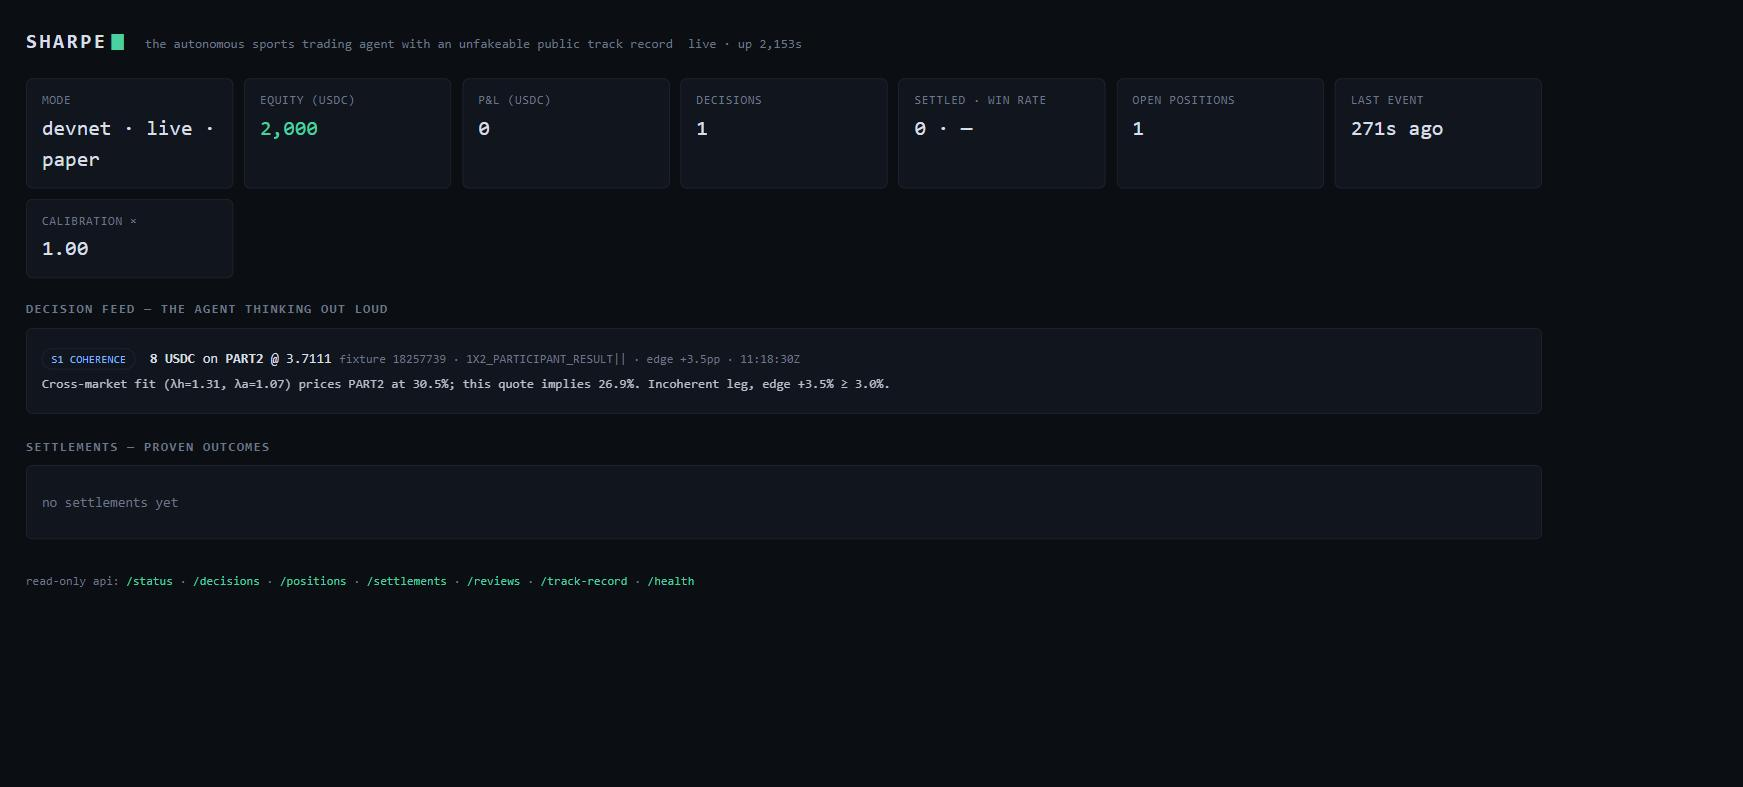
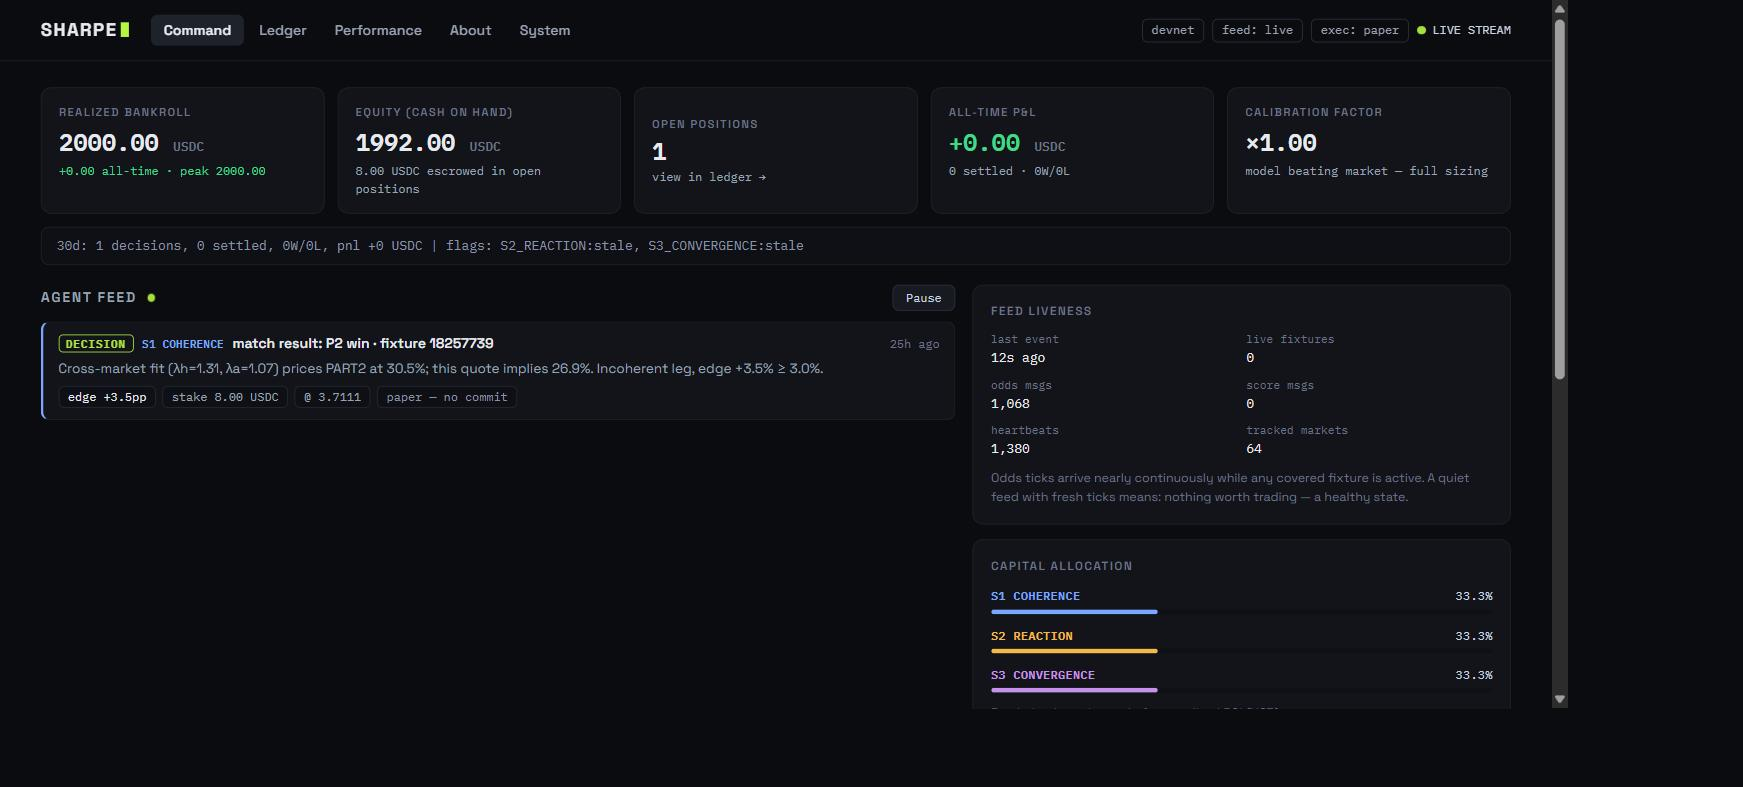
docs: README hero = the real production frontend (browser-verified, all views, zero app errors)

diff --git a/README.md b/README.md
@@ -54,9 +54,9 @@ The chain accepted the truth and rejected the lie. That single mechanic is the e
 
 <div align="center">
 
-<img src="docs/assets/dashboard-live.jpg" alt="SHARPE live dashboard — the agent trading a live match on devnet" width="92%"/>
+<img src="docs/assets/dashboard-live.jpg" alt="SHARPE production frontend — the agent live on devnet" width="92%"/>
 
-*The dashboard mid-session — SHARPE live on devnet, pricing a real match as it plays.*
+*The production frontend, live on devnet — a real decision with its reasoning, live vitals, and the agent's self-regulation, all streamed over SSE.*
 
 </div>
 